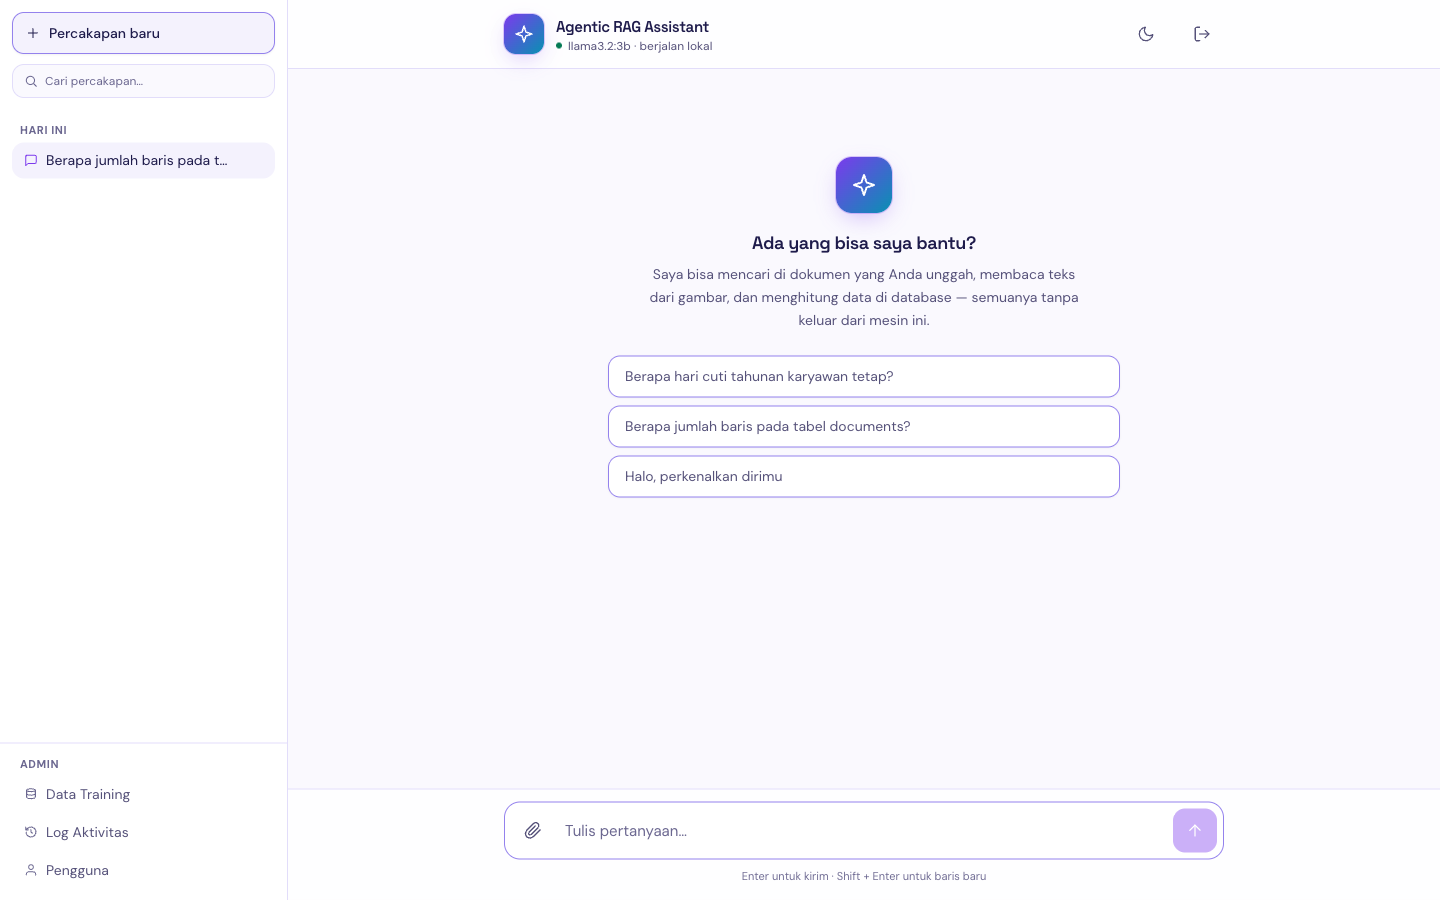
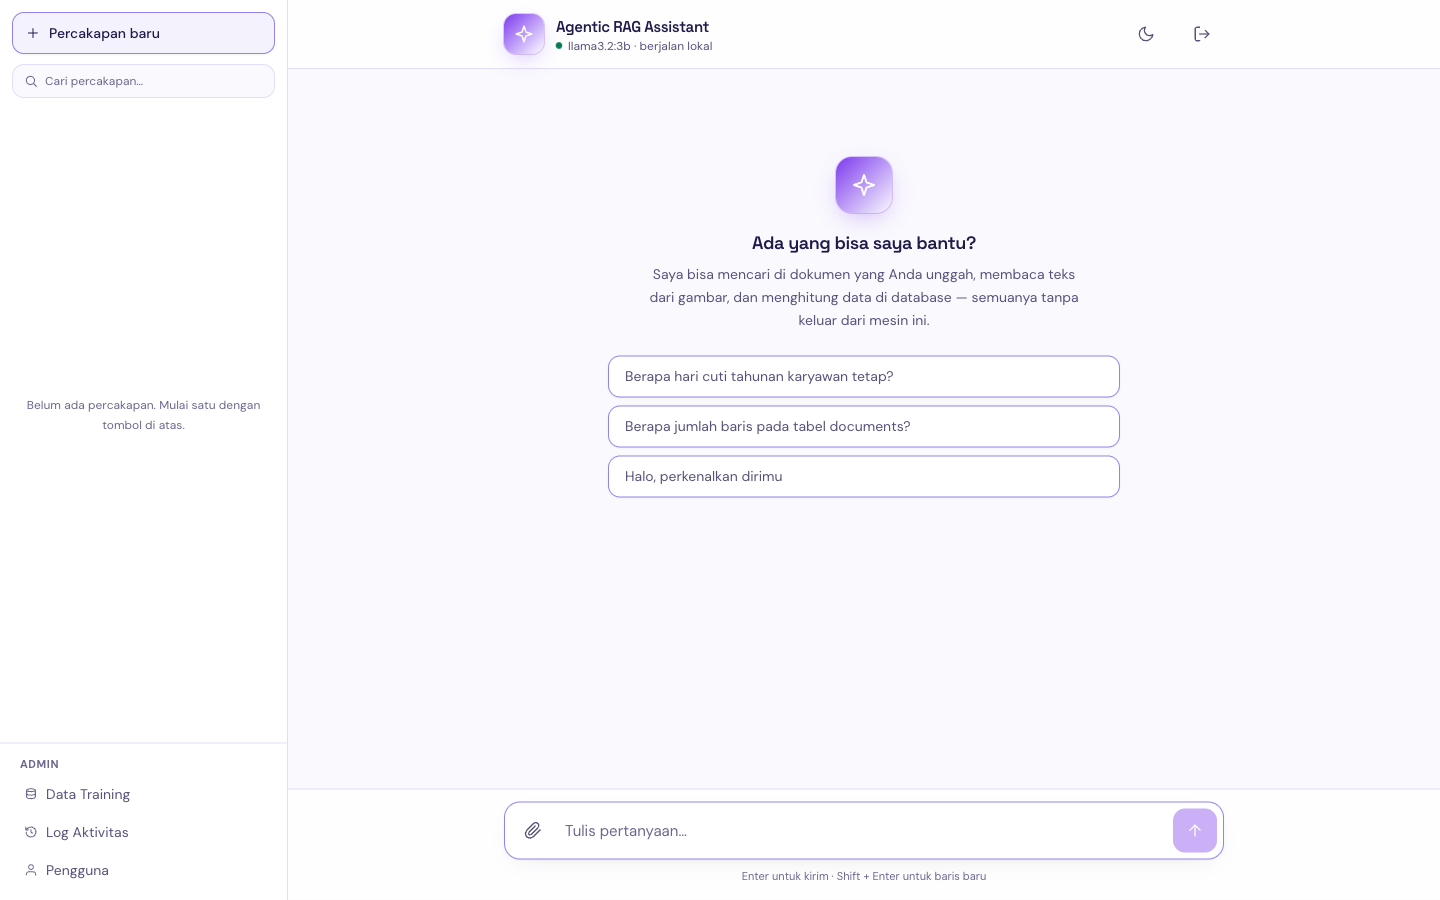
docs: record the localhost menu diagnosis

diff --git a/docs/DONE.md b/docs/DONE.md
@@ -720,6 +720,14 @@ closed each task follows.
   account with a known password. Their `activity_log` rows survive with `user_id` NULL and the
   username snapshot intact — the ON DELETE SET NULL behaviour Task 1's test asserts, observed
   in the wild.
+- After the sweep, the operator reported that the Admin menu did not appear at
+  `localhost:5173`. Two causes, both environmental rather than defects: the uvicorn on :8000
+  had been started before SP2 and served **zero** `/admin/*` routes, and no account in the
+  database carried the `ADMIN` role. That server was restarted on the current code (7 admin
+  routes, confirmed from its own `/openapi.json`) and an account was created for the operator:
+  **`admin`** with password **`rahasia1`** — the requested `rahasia` is 7 characters and
+  `LoginRequest` requires 8, so the login would have been a 422. `docs/screenshots/sp2-sidebar-admin.png`
+  was re-taken signed in as that account.
 
 ## The role boundary, live
 
